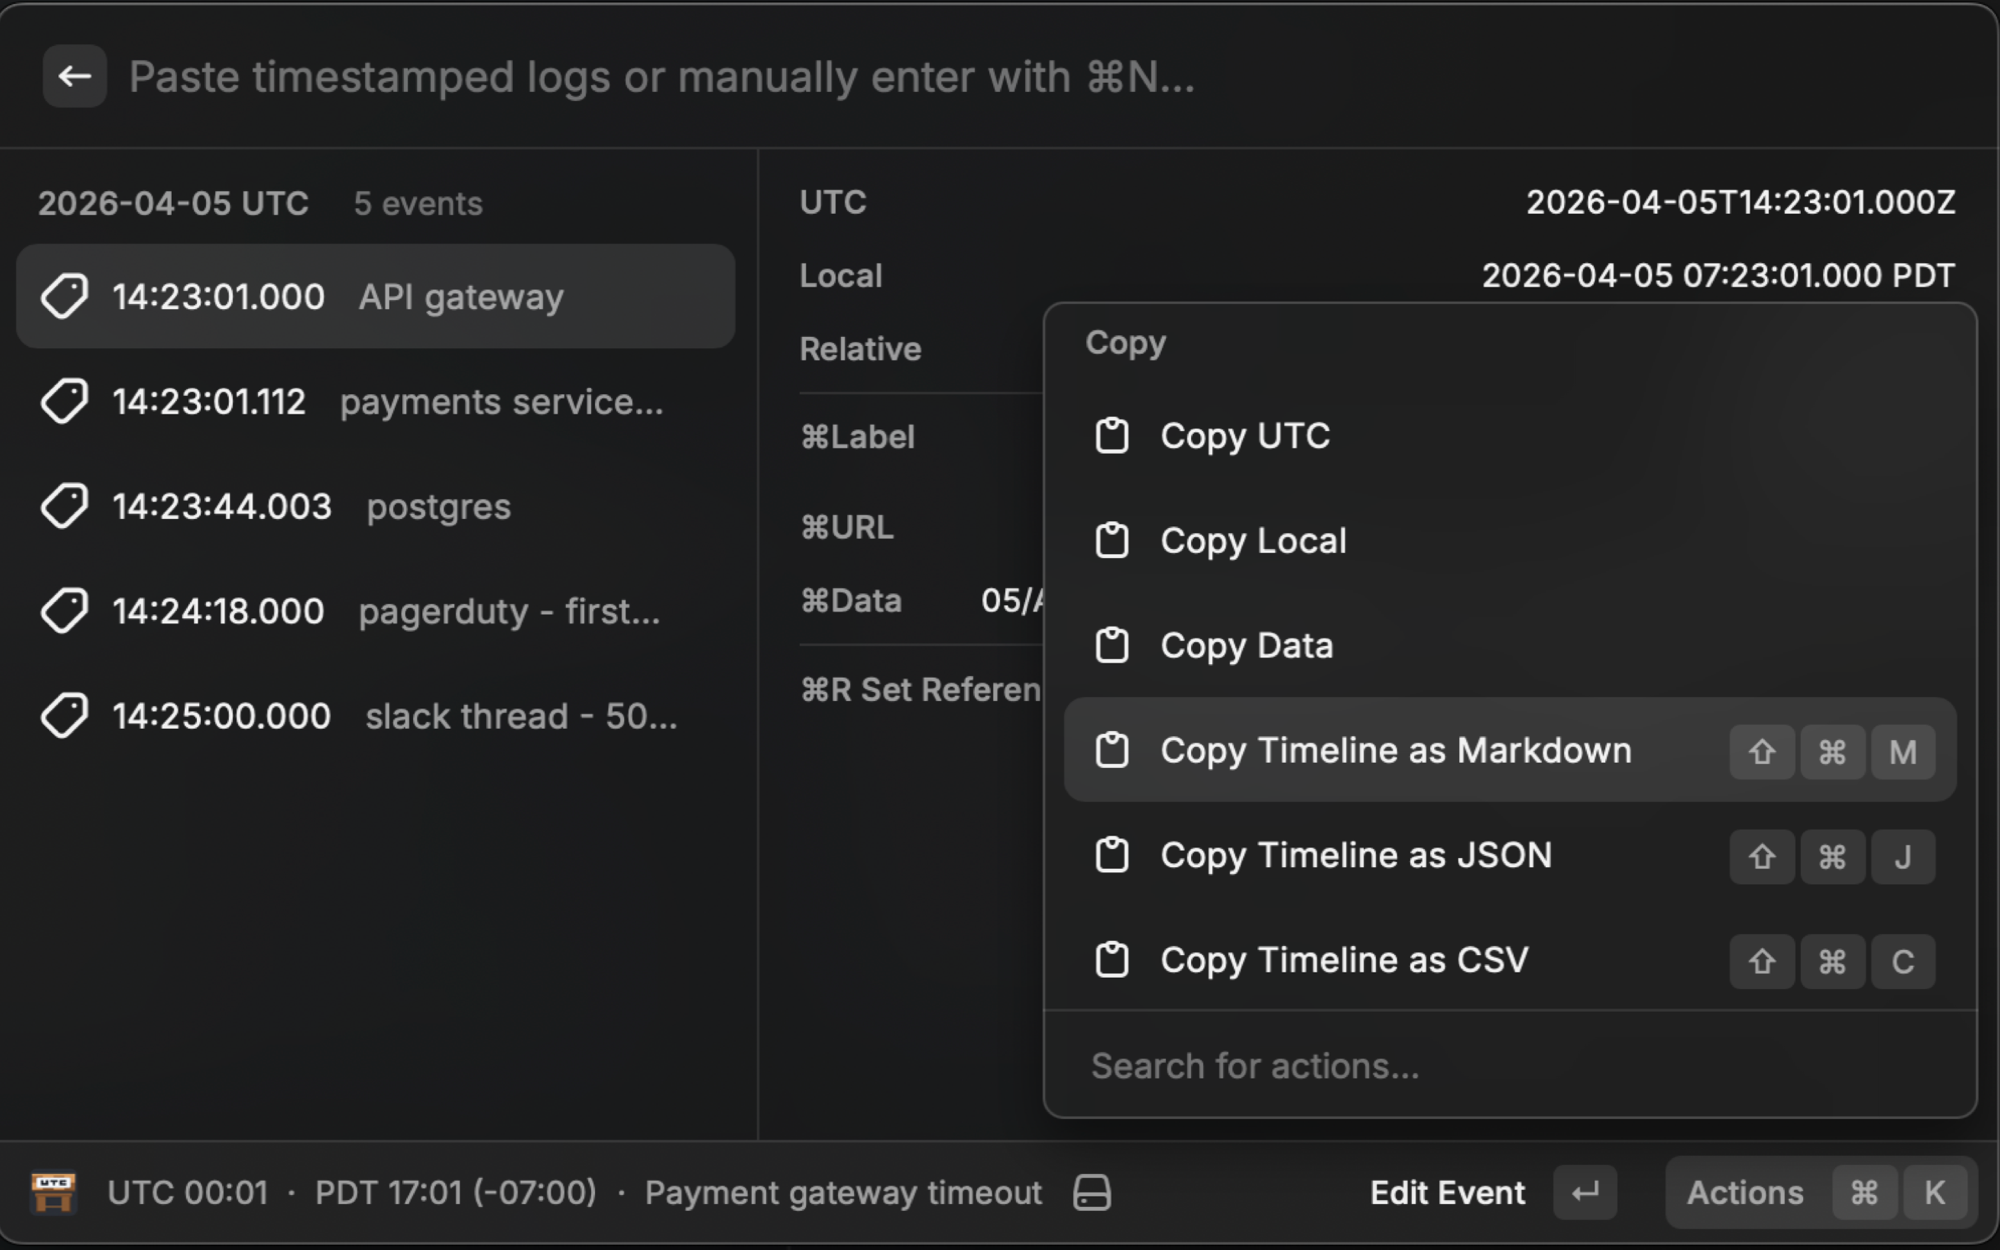
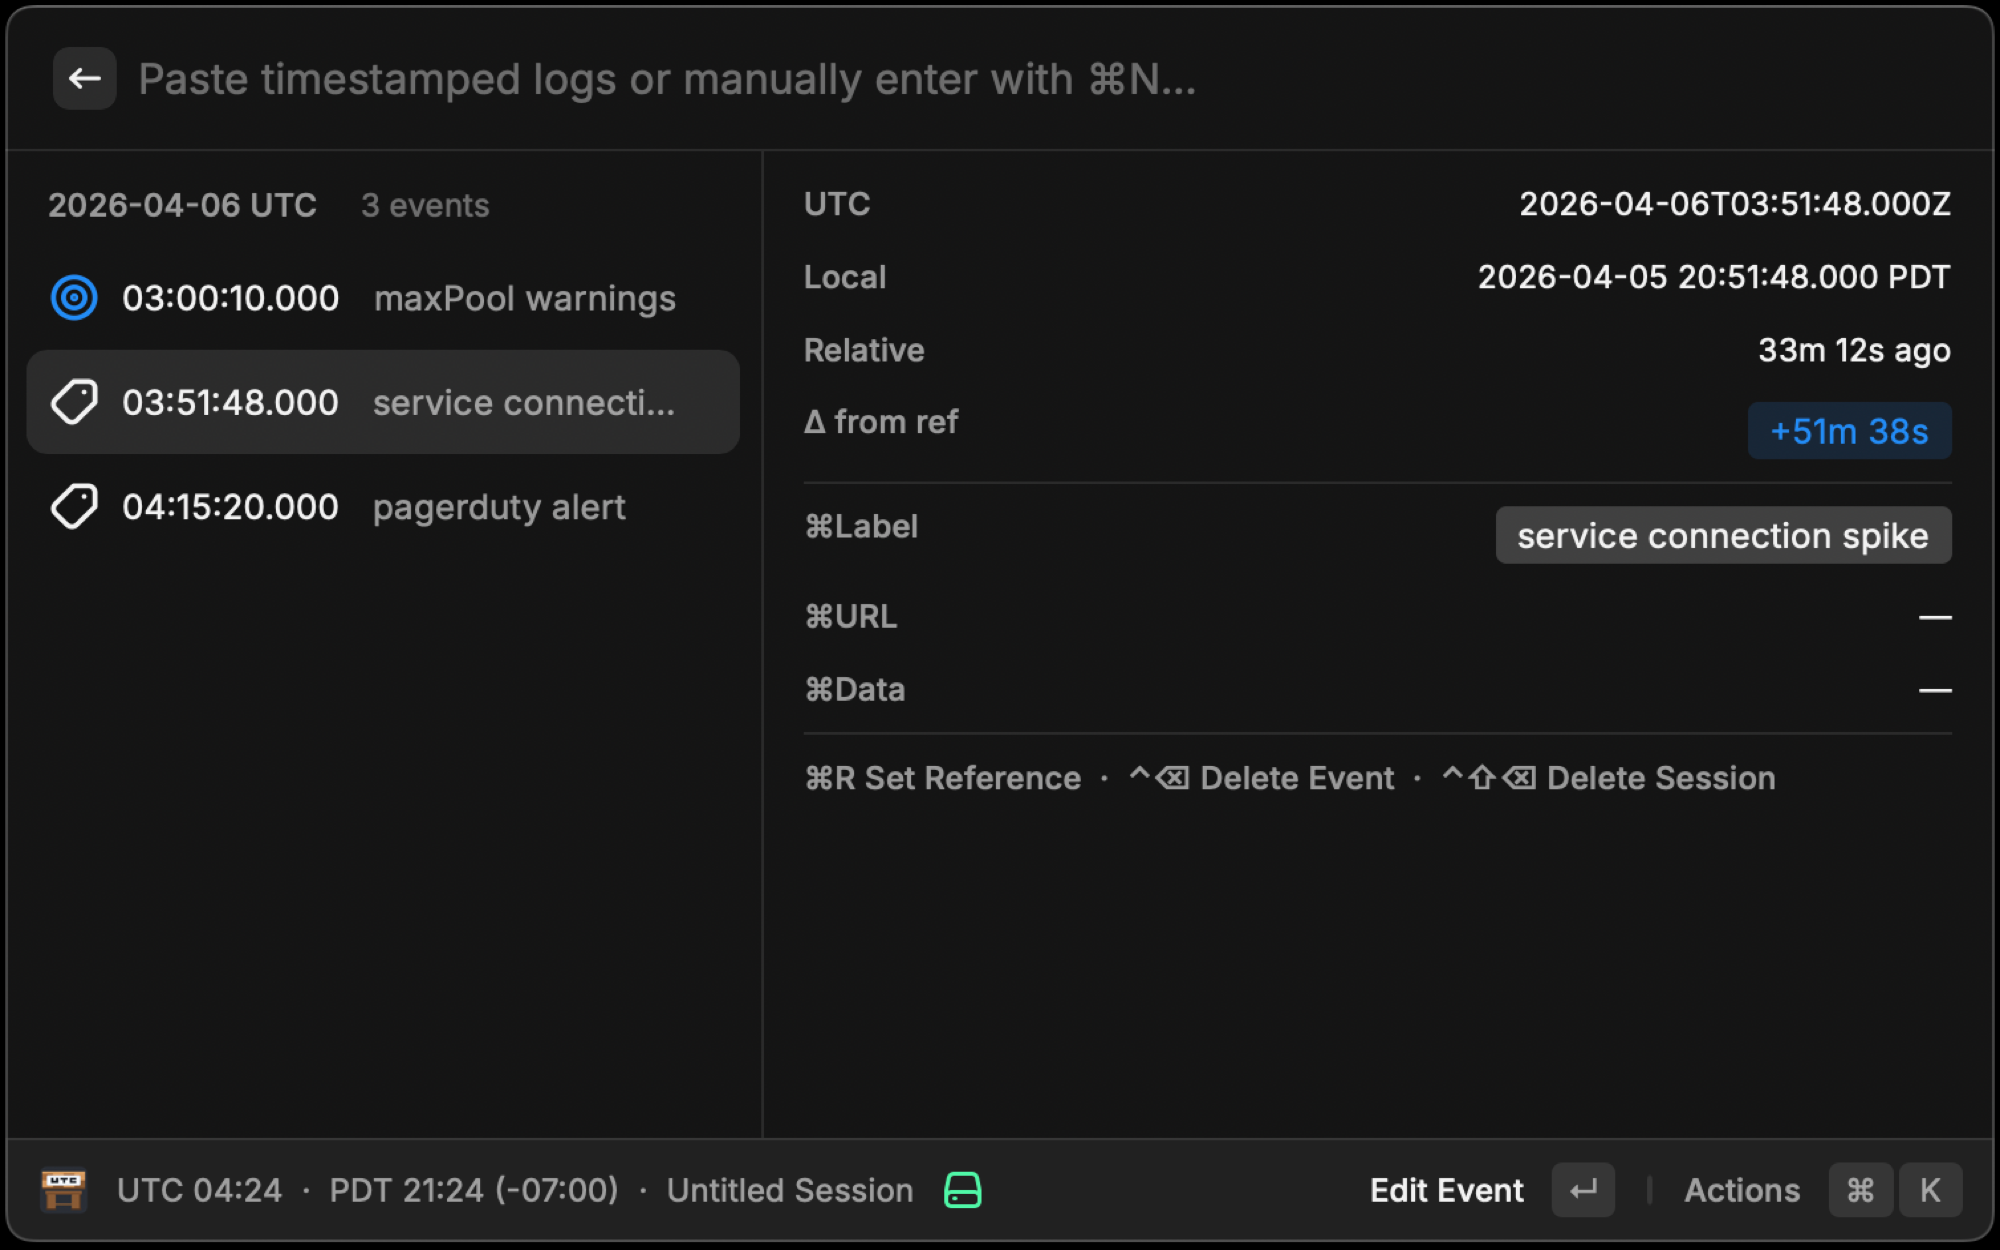
Clean up reference workflow

diff --git a/src/utc-workbench.tsx b/src/utc-workbench.tsx
@@ -183,11 +183,11 @@ export default function UTCWorkbench() {
     return map;
   }, [parsedRows, events]);
 
-  // An explicit reference wins over selection; if neither is valid, falls
-  // back to null and no deltas are shown anywhere.
-  const effectiveReferenceId = referenceId ?? selectedId;
+  // Only show deltas when the user has explicitly set a reference — no
+  // implicit selection-follows behavior, which caused confusing shifting
+  // offsets when navigating the list.
   const referenceTimestamp =
-    effectiveReferenceId !== null ? (timestampById.get(effectiveReferenceId) ?? null) : null;
+    referenceId !== null ? (timestampById.get(referenceId) ?? null) : null;
 
   // If an explicit reference becomes stale (row no longer exists after a
   // query edit or deletion), clear it so the UI doesn't show stale offsets.
@@ -207,7 +207,7 @@ export default function UTCWorkbench() {
 
   function offsetFrom(timestamp: number, itemId: string): string | null {
     if (referenceTimestamp === null) return null;
-    if (itemId === effectiveReferenceId) return null;
+    if (itemId === referenceId) return null;
     return formatDelta(timestamp - referenceTimestamp);
   }
 

diff --git a/src/components/ParsedRow.tsx b/src/components/ParsedRow.tsx
@@ -1,4 +1,4 @@
-import { Action, ActionPanel, Icon, List } from '@raycast/api';
+import { Action, ActionPanel, Color, Icon, List } from '@raycast/api';
 import { DateTime } from 'luxon';
 import { extractTime, trimOrNull } from '../lib/format';
 import type { ParsedTimestamp } from '../types';
@@ -32,11 +32,18 @@ export function ParsedRow({
   sessionActions,
 }: ParsedRowProps) {
   const subtitle = r.ambiguous ? 'No timezone — select one' : r.label;
+  const isRef = referenceId === itemId;
 
   return (
     <List.Item
       id={itemId}
-      icon={r.ambiguous ? Icon.Warning : Icon.MagnifyingGlass}
+      icon={
+        isRef
+          ? { source: Icon.BullsEye, tintColor: Color.Blue }
+          : r.ambiguous
+            ? Icon.Warning
+            : Icon.MagnifyingGlass
+      }
       title={r.iso}
       {...(subtitle !== null ? { subtitle } : {})}
       detail={

diff --git a/src/components/EventRow.tsx b/src/components/EventRow.tsx
@@ -1,4 +1,4 @@
-import { Action, ActionPanel, Icon, List } from '@raycast/api';
+import { Action, ActionPanel, Color, Icon, List } from '@raycast/api';
 import { extractTime, trimOrNull } from '../lib/format';
 import type { Event, ParsedTimestamp } from '../types';
 import { TextInputForm } from './TextInputForm';
@@ -39,11 +39,18 @@ export function EventRow({
   sessionActions,
 }: EventRowProps) {
   const subtitle = event.label;
+  const isRef = referenceId === itemId;
 
   return (
     <List.Item
       id={itemId}
-      icon={event.label ? Icon.Tag : Icon.Clock}
+      icon={
+        isRef
+          ? { source: Icon.BullsEye, tintColor: Color.Blue }
+          : event.label
+            ? Icon.Tag
+            : Icon.Clock
+      }
       title={extractTime(event.iso)}
       {...(subtitle !== null ? { subtitle } : {})}
       detail={

diff --git a/src/components/TimestampDetail.tsx b/src/components/TimestampDetail.tsx
@@ -69,7 +69,12 @@ export function TimestampDetail(props: TimestampDetailProps) {
                   />
                 </List.Item.Detail.Metadata.TagList>
               ) : props.offset !== null ? (
-                <List.Item.Detail.Metadata.Label title="Offset" text={props.offset} />
+                <List.Item.Detail.Metadata.TagList title="Δ from ref">
+                  <List.Item.Detail.Metadata.TagList.Item
+                    text={props.offset}
+                    color={Color.Blue}
+                  />
+                </List.Item.Detail.Metadata.TagList>
               ) : null}
             </>
           )}

diff --git a/README.md b/README.md
@@ -4,9 +4,13 @@ Paste log lines from any source, normalize timestamps to UTC, and reconstruct a 
 
 ![Parsing log lines](metadata/1.png)
 
+Quickly see time offsets from a reference event to a target event.
+
+![Compare time offsets](metadata/2.png)
+
 As you conclude investigation, export the timeline as JSON, CSV, or markdown to transcribe into other ticketing systems.
 
-![Export options](metadata/2.png)
+![Export options](metadata/3.png)
 
 ## Audience
 
